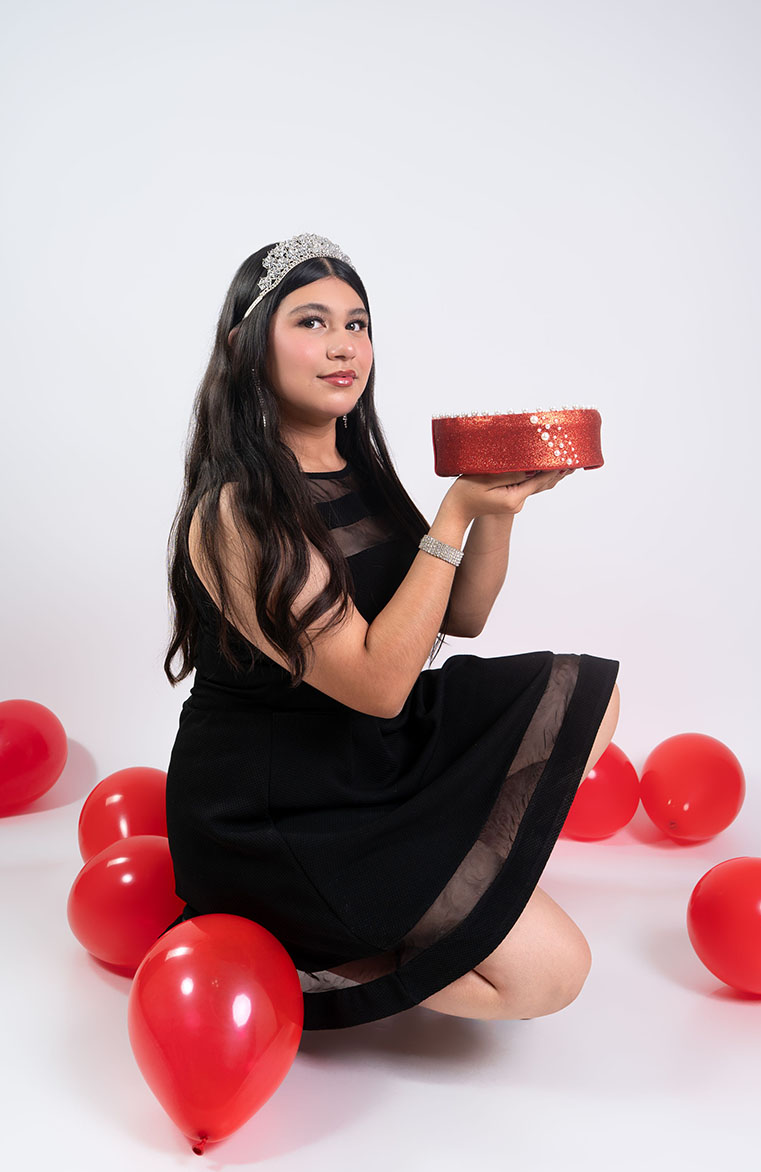
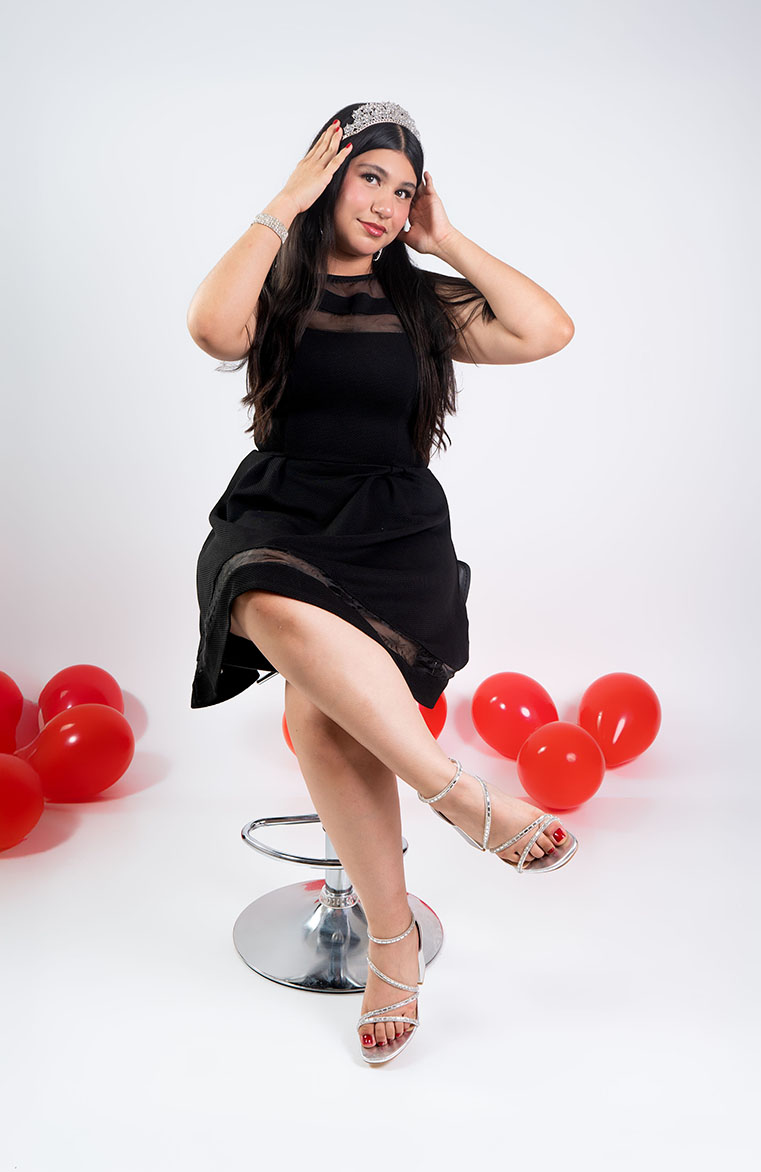
s
s

diff --git a/index.html b/index.html
@@ -216,8 +216,8 @@
 
                         <div class="timeline_item pb_20">
                             <img class="timeline_img" src="estrella.png">
-                            <div class="timeline_time">9:30 pm</div>
-                            <div class="timeline_event">Cena</div>
+                            <div class="timeline_time">12:30 pm</div>
+                            <div class="timeline_event">Servicio de shot</div>
                         </div>
 
                 
